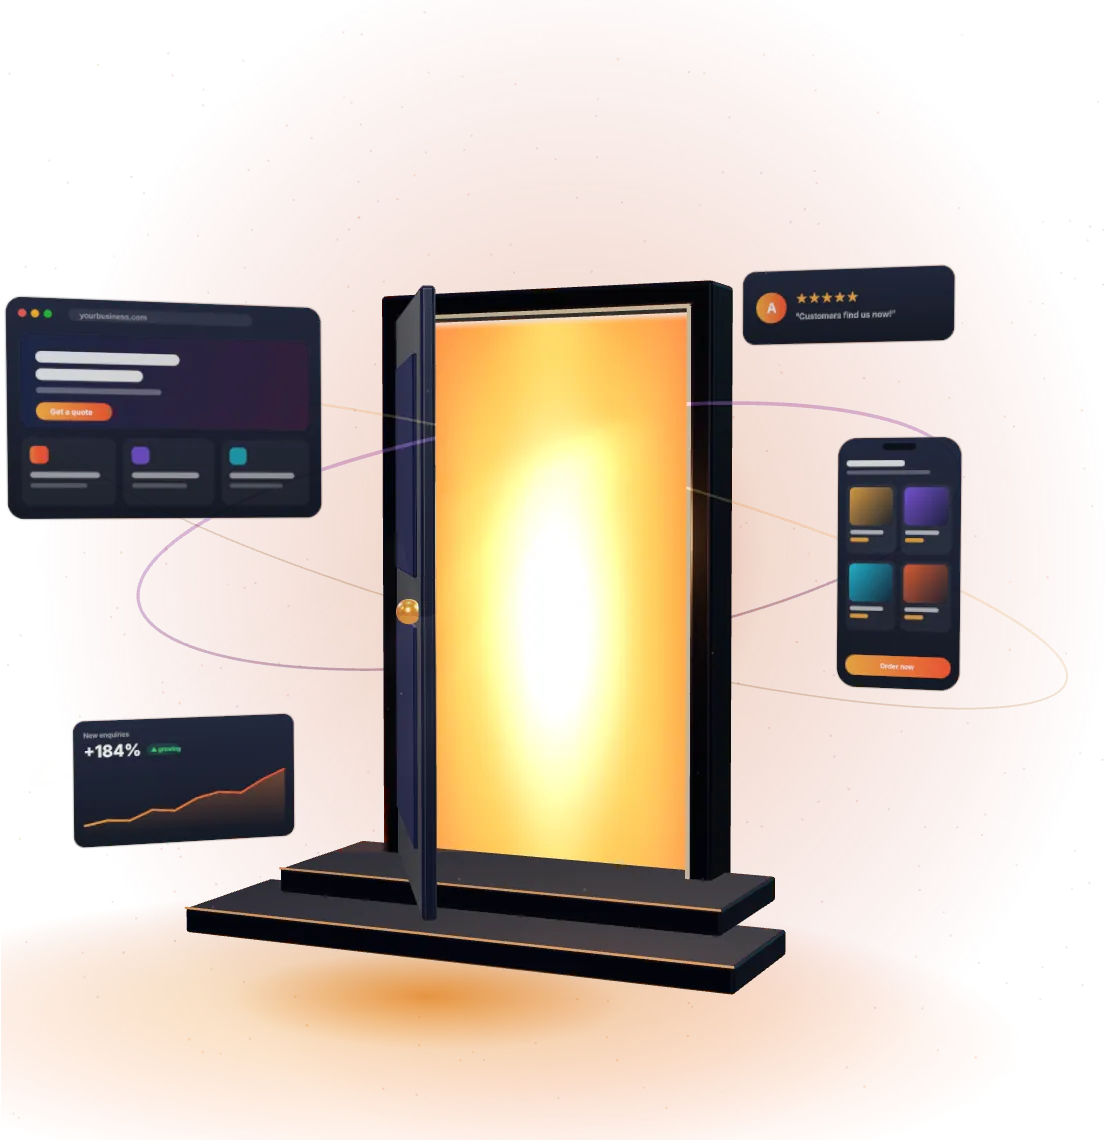
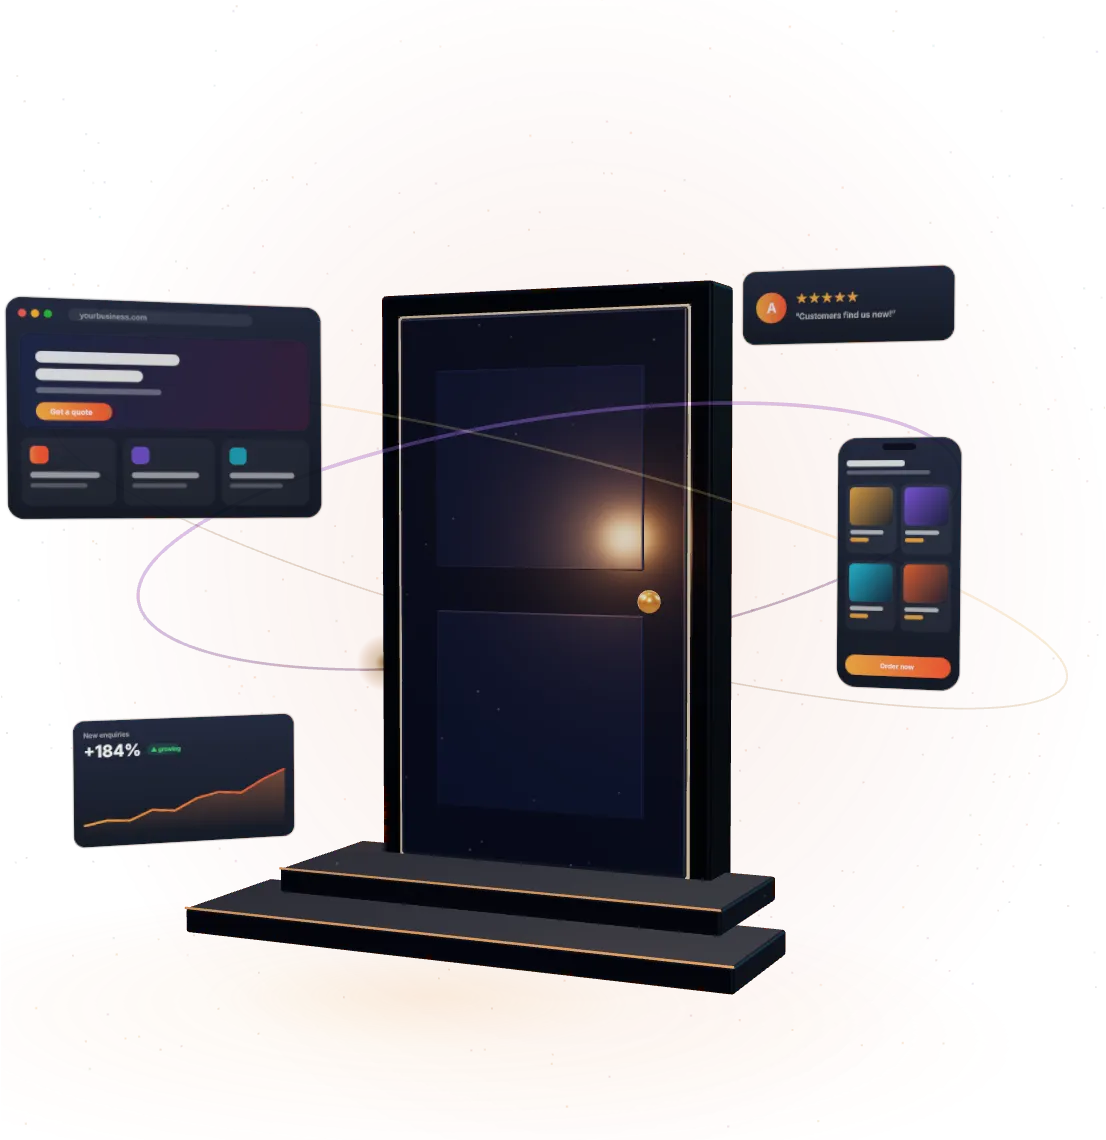
Hero: real 3D door starts immediately, closed-door placeholder, preload scene
Claude-Session: https://claude.ai/code/session_01Kf58dhud5ohGXdRtfyfnpx

Changed region(s): [[0.0, 0.2149, 0.7993, 1.0]]

diff --git a/src/components/hero/doorwayScene.ts b/src/components/hero/doorwayScene.ts
@@ -200,7 +200,7 @@ function cardTexture(kind: "browser" | "phone" | "stats" | "review", s: number, 
   return { texture: t, aspect: W / H };
 }
 
-export function mountDoorway(canvas: HTMLCanvasElement, opts: { reducedMotion?: boolean; skipIntro?: boolean } = {}): SceneHandle {
+export function mountDoorway(canvas: HTMLCanvasElement, opts: { reducedMotion?: boolean; skipIntro?: boolean; freezeOpen?: number; onFirstFrame?: () => void } = {}): SceneHandle {
   const isSmall = Math.min(window.innerWidth, window.innerHeight) < 640;
   const renderer = new THREE.WebGLRenderer({ canvas, antialias: true, alpha: true, powerPreference: "high-performance" });
   // Render at the screen's real resolution (phones are often 3x), so edges and text stay crisp.
@@ -450,7 +450,11 @@ export function mountDoorway(canvas: HTMLCanvasElement, opts: { reducedMotion?: 
   const clock = new THREE.Clock();
   let raf = 0;
   let active = true;
-  let openT = opts.reducedMotion || opts.skipIntro ? 1 : 0;
+  let started = false;
+  let firstDone = false;
+  let disposed = false;
+  const frozen = opts.freezeOpen !== undefined;
+  let openT = frozen ? (opts.freezeOpen as number) : opts.reducedMotion || opts.skipIntro ? 1 : 0;
   const easeOut = (t: number) => 1 - Math.pow(1 - t, 3);
 
   // Speed guard: if a slow device can't keep up at full resolution, step it down once or twice.
@@ -471,9 +475,9 @@ export function mountDoorway(canvas: HTMLCanvasElement, opts: { reducedMotion?: 
   const render = () => {
     const rawDt = clock.getDelta();
     adapt(rawDt);
-    const dt = Math.min(rawDt, 0.05);
+    const dt = frozen ? 0 : Math.min(rawDt, 0.05);
     const t = clock.elapsedTime;
-    const motion = opts.reducedMotion ? 0 : 1;
+    const motion = opts.reducedMotion || frozen ? 0 : 1;
 
     // Door opens on load, then breathes a little
     openT = Math.min(1, openT + dt / 2.4);
@@ -519,13 +523,23 @@ export function mountDoorway(canvas: HTMLCanvasElement, opts: { reducedMotion?: 
     world.rotation.y = pointer.x * 0.08 * motion;
 
     renderer.render(scene, camera);
+    if (!firstDone) { firstDone = true; opts.onFirstFrame?.(); }
     if (active) raf = requestAnimationFrame(render);
   };
-  raf = requestAnimationFrame(render);
+  // Compile the shaders in the background (where supported) so the first frame doesn't freeze the page.
+  const begin = () => {
+    if (started || disposed) return;
+    started = true;
+    if (active) raf = requestAnimationFrame(render);
+  };
+  const compileAsync = (renderer as THREE.WebGLRenderer & { compileAsync?: (s: THREE.Object3D, c: THREE.Camera) => Promise<unknown> }).compileAsync;
+  if (compileAsync) compileAsync.call(renderer, scene, camera).then(begin, begin);
+  else begin();
 
   const setActive = (on: boolean) => {
     if (on === active) return;
     active = on;
+    if (!started) return;
     if (on) {
       clock.getDelta();
       raf = requestAnimationFrame(render);
@@ -536,6 +550,7 @@ export function mountDoorway(canvas: HTMLCanvasElement, opts: { reducedMotion?: 
     setActive,
     dispose: () => {
       active = false;
+      disposed = true;
       cancelAnimationFrame(raf);
       ro.disconnect();
       window.removeEventListener("pointermove", onPointer);

diff --git a/src/components/hero/HeroVisual.tsx b/src/components/hero/HeroVisual.tsx
@@ -25,6 +25,9 @@ function DoorPoster() {
   );
 }
 
+// Start fetching the 3D scene as soon as this file loads, without waiting for the page to finish hydrating.
+const scenePromise: Promise<typeof import("./doorwayScene")> | null = typeof window !== "undefined" ? import("./doorwayScene") : null;
+
 export function HeroVisual() {
   const canvasRef = useRef<HTMLCanvasElement>(null);
   const boxRef = useRef<HTMLDivElement>(null);
@@ -38,6 +41,8 @@ export function HeroVisual() {
     const nav = navigator as Navigator & { connection?: { saveData?: boolean; effectiveType?: string }; deviceMemory?: number };
     const slow = nav.connection?.saveData || /(^|-)(slow-)?[23]g$/.test(nav.connection?.effectiveType ?? "") || (nav.deviceMemory ?? 8) <= 2 || (navigator.hardwareConcurrency ?? 8) <= 2;
     if (slow) return;
+    // Used only to take the placeholder picture: freeze the door at a given opening.
+    const capture = (window as Window & { __HERO_FREEZE__?: number }).__HERO_FREEZE__;
     const reduced = window.matchMedia("(prefers-reduced-motion: reduce)").matches;
     let handle: { dispose: () => void; setActive: (on: boolean) => void } | null = null;
     let cancelled = false;
@@ -50,12 +55,11 @@ export function HeroVisual() {
 
     // The poster is already on screen, so start fetching the 3D scene straight away.
     const start = () => {
-      import("./doorwayScene").then(({ mountDoorway }) => {
+      (scenePromise ?? import("./doorwayScene")).then(({ mountDoorway }) => {
         if (cancelled) return;
         try {
-          handle = mountDoorway(canvas, { reducedMotion: reduced, skipIntro: true });
+          handle = mountDoorway(canvas, { reducedMotion: reduced, freezeOpen: capture, onFirstFrame: () => setReady(true) });
           sync();
-          requestAnimationFrame(() => setReady(true));
         } catch {
           /* keep the static fallback */
         }
@@ -73,12 +77,12 @@ export function HeroVisual() {
 
   return (
     <div ref={boxRef} className="absolute inset-0">
-      <div className={`transition-opacity duration-200 ${ready ? "opacity-0 delay-[800ms]" : "opacity-100"}`}>
+      <div className={`transition-opacity duration-200 ${ready ? "opacity-0 delay-[500ms]" : "opacity-100"}`}>
         <DoorPoster />
       </div>
       <canvas
         ref={canvasRef}
-        className={`absolute inset-0 h-full w-full transition-opacity duration-700 ${ready ? "opacity-100" : "opacity-0"}`}
+        className={`absolute inset-0 h-full w-full transition-opacity duration-500 ${ready ? "opacity-100" : "opacity-0"}`}
         aria-label="3D illustration of an open doorway glowing with light, surrounded by floating website previews"
         role="img"
       />
